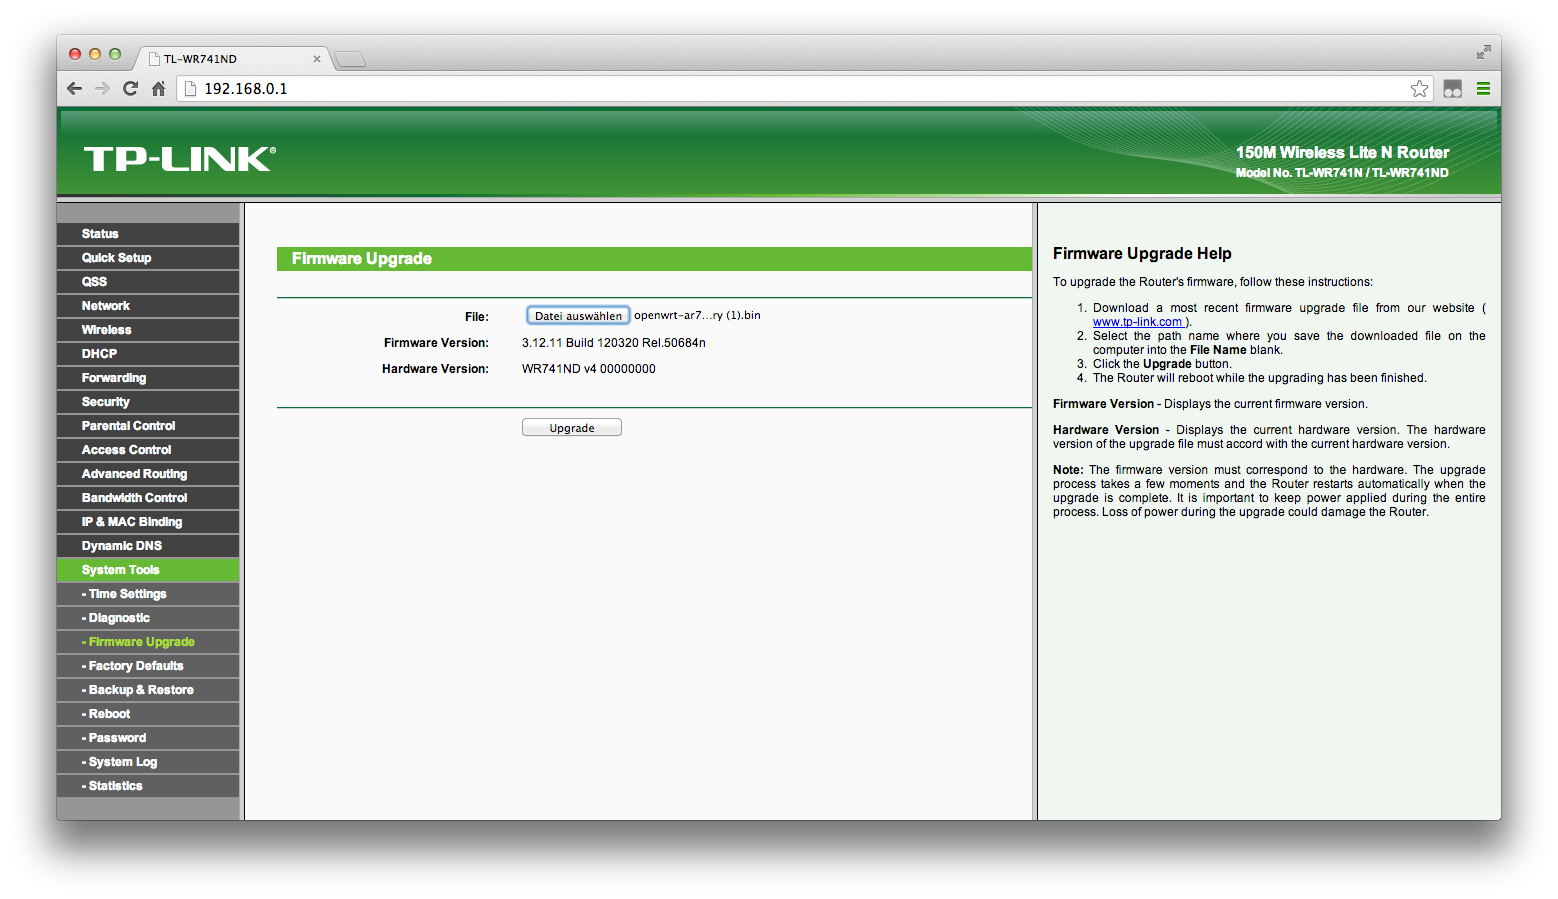
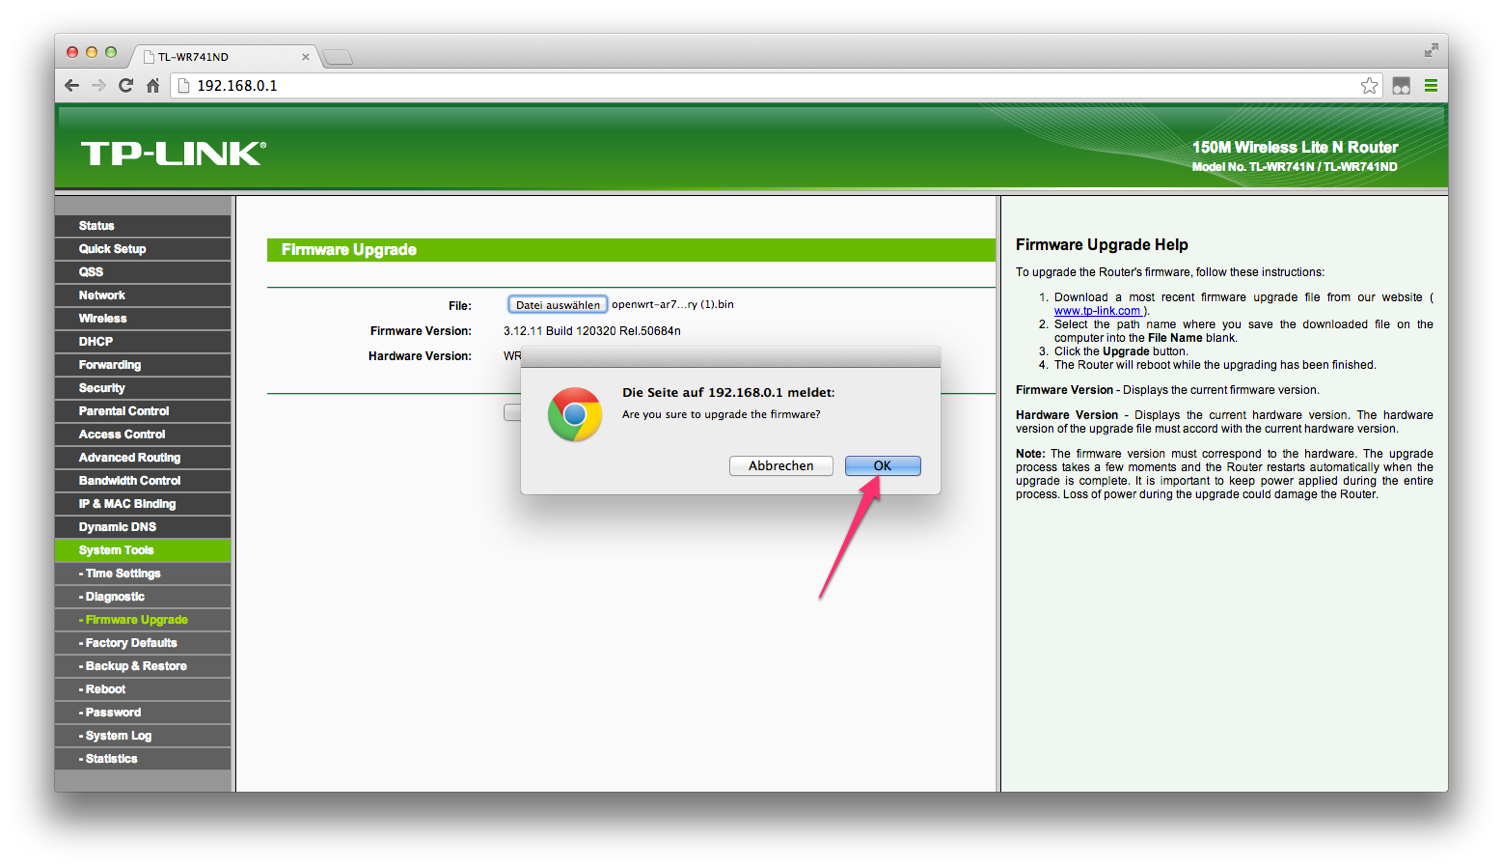
1. Firmware update geschrieben 2. Bilder angepasst

diff --git a/FirmwareEinspielen/HowTo-FirmwareEinspielen.md b/FirmwareEinspielen/HowTo-FirmwareEinspielen.md
@@ -1,93 +1,77 @@
 #  Freifunk Hamburg Router Firmware einspielen
-### Schnell–Anleitung
-
-
-![](./img/TP_link_firmware_confirm.png "")
-![](./img/TP_link_firmware_file.png "")
-![](./img/TP_link_firmware.png "")
-![](./img/TP_link_start.png "")
-![](./img/TP_link_upgrade_progress.png "")
-
+### Schritt für Schritt Anleitung
 ## Einleitung
-Das Einrichten des Routers ist ganz einfach und Du benötigst keine technischen Kenntnisse. Wenn du dieser Anleitung folgst kann eigentlich nichts schiefgehen.
+Um einen Router als Freifunk Router zu nutzen ist es erforderlich dort das Freifunk Betriebssystem – die Freifunk Firmware – zu installieren.
 
-Diese Anleitung erklärt Schritt für Schritt wie's geht. Wenn du fertig bist ist läuft das Freifunk WLAN und kann von Allen unter 
-hamburg.freifunk.net erreicht werden.
+Die Installation ist ganz einfach und Du benötigst keine technischen Kenntnisse. Wenn du dieser Anleitung folgst kann eigentlich nichts schiefgehen.
 
-Dein Router sollte das Freifunk Betriebssystem bereits installiert haben. Ob das so ist, erfährst du von dem Freifunker, von dem du das Gerät bekommen hast.
-Wenn dein Router noch nicht das Freifunk-Betriebssystem installiert hat, findest du hier die Anleitung wie du es installierst.
+Anmerkung: Diese Anleitung geht davon aus, dass du einen relativ neuen Router von TP-Link verwendest und noch keine Freifunk-Firmware auf deinem Router läuft. Wenn du einen anderen Router hast, oder einen älteren, oder ein Update machen willst, bitte lies die Anweisungen im (http://wiki.freifunk.net/Freifunk_Hamburg/Firmware.
+Los geht's!
 
-## Router anschließen
-### 1. Freifunk-Router mit dem Computer verbinden
-Bitte schließe deinen Router an eine Stekckdose an - Das Kabel dazu ist dabei. Verbinde dann den Router mit dem beiliegenden grauen LAN-Kabel mit Deinem Computer. Stecke dafür das Kabel in eine der gelben Buchsen (die blaue brauchst du später). Vergiss nicht den Router einzuschalten.
-TODO Bild einfügen.
+## 1. Freifunk-Router mit dem Computer verbinden
+![Dein Router](./img/dein_router.png "Das ist dein Router")
 
-### 2. Konfiguration starten
-Jetzt kannst du den Router einfach über den Browser konfigurieren. Dazu rufst du in deinen Browser folgende Adresse auf: 
-<http://192.168.1.0>
+Bitte schließe deinen Router (1) (Die Antenne (2) kannst du jetzt oder auch später aufschrauben.) an eine Steckdose an - Das Kabel dazu ist dabei (3). Verbinde dann den Router mit dem beiliegenden grauen LAN-Kabel (4) mit Deinem Computer. 
 
-Als erstes wirst du nach Username und Password gefragt - ab Werk ist das "admin" und "admin". 
-Nach dem Login müsste das Browserfenster nun so aussehen:
-TODO Bild einfügen
+Stecke dafür das Kabel in eine der gelben Buchsen (die blaue brauchst du später).
+![Gelbe Buchse](./img/gelbe_buchse.png "Steck deinen Router für die Einrichtung hier ein")
 
-Folge hier dem Link "Knoten neu einrichten". Er führt dich durch die Schritte des Einrichtungsprozesses.
+## 2. Firmware runterladen
+Derzeit gibt es die Hamburg Freifunk als fertigen Download für zwei verschiedene Router-Typen. 
 
-### 3. Passwort vergeben
-Als erstes legst du ein Passwort fest.
-TODO: Wann brauch ich das? 
+Herauszufinden welche Firmware du brauchst ist ganz einfach:
+Der Router-Typ (1) und die Hardware-Version (2) steht auf der Rückseite des Routers.
 
-![Passwort](./password.jpg "Nimm ein gutes Passwort")
+![Hardware-Version](./img/TP_link_version.png "Hardware-Version")
 
-### 4. Namen vergeben
-ALs nächstes musst du deinem Router einen Namen geben.
-TODO: Warum? Wo eird der denn benötigt?
-![Name](./name.jpg "Such dir einen Namen aus")
+### TP-Link TL-WR740N / TL-WR741ND (der Router mit nur einer Antenne):
 
-Nimm am Besten einen Namen, der …
-TODO: Empfehlungen zum Namen
-TODO: Entscheiden ob das weg kann
-	Wichtig: Du kommst jederzeit durch Drücken der QSS-Taste wieder in meinen Configmode und kannst Einstellungen ändern.
+Version __[4.x](http://freifunk-gw01.hamburg.ccc.de/ffhh/openwrt-ar71xx-generic-tl-wr741nd-v4-squashfs-factory.bin)__
 
-### 5. Optionen 
-#### Mesh
-#### Bandbreitenbegrenzung
-Wenn du einen einen einen einigermaßen normalen Internetanschluss hast, brauchst du die Begrenzung nicht aktivieren.
+### TP-Link TL-WR842ND (der Router mit zwei Antennen)
 
-### 6. Dein Schlüssel
-Nun bekommst Du einen Schlüssel:
-![Schlüssel](./schluessel.jpg)
-Diesen Schlüssel musst Du dir aufschreiben! Du kannst ihn zusätzlich in die Zwischenablage kopieren!
+Version __[1.x](http://freifunk-gw01.hamburg.ccc.de/ffhh/openwrt-ar71xx-generic-tl-wr842n-v1-squashfs-factory.bin)__ 
 
-### 7. Abschließen und Einstellungen speichern
-Noch einmal auf Weiter und auf „Jetzt Neustarten“ und ich starte neu und bin fast bereit...
+Wenn du einen anderen Router verwendest, oder wenn du eine ältere Version der genannten Router hast, kannst du im [Wiki](http://wiki.freifunk.net/Freifunk_Hamburg/Firmware#Download) die entsprechende Version der Firmware laden.
 
+## 3. Firmware einspielen
+Jetzt kannst du den Router einfach über den Browser konfigurieren. 
 
+Dazu rufst du in deinen Browser folgende Adresse auf: __<http://192.168.0.1>__
 
+Dein Browserfenster müsste nun so aussehen – Folge hier dem Link "System Tools".
 
-Wichtig: Wenn ich keine anderen Freifunk-Knoten sehe, kann ich nicht „meshen“ und das Freifunk-Netz vergrößern. Ich brauche in diesem Fall eine Internetverbindung um ein Teil des Freifunk-Netzes zu werden – Bitte schließe mich mit einem Lankabel an Deinen Heimrouter an - 
-Wichtig: benutze dafür nur meine blaue Buchse und NICHT eine meiner gelben Buchsen!
+![TP-Link Konfiguration](./img/TP_link_start.png "Geh zu System Tools")
 
-## Router im Netz registrieren
-Nun musst Du mich über dieses Formular mit dem Freifunk-Netz bekannt machen:
-<http://freifunk-gw01.hamburg.ccc.de:8080/>
-![Registrieren](./foemular.jpg)
+Als nächste wählst du aus dem Menü "Firmware Upgrade" (1). Danach kannst du die vorhin (in Schritt 2) geladene Datei zum Hochladen auswählen (2). Nach einem Klick auf "Upgrade" (3) beginnt der Prozess.
 
+![System Tools - Upgrade Formware](./img/TP_link_firmware.png "Wähle die Freifunk Firmware und spiele sie ein")
 
-Hier trägst Du nun meinen Namen, meinen Schlüssel, meine MAC-Adresse (steht unten auf meinem Gehäuse), Deinen Namen und eine E-Mail-Adresse. Außerdem kannst Du meinen Standort eintragen – so kann man mich leichter finden :-) 
+Du musst noch einmal kurz bestätigen … 
 
-Unter http://freifunk-gw01.hamburg.ccc.de/ffhhmap/geomap.html, mit der Option „Koordinaten beim nächsten Klick zeigen“ findest Du die Koordinaten meines zukünftigen Standortes.
-Dann kannst Du mich eintragen und ich werde ein Teil des Netzes – habe ein bisschen Geduld,
-es kann manchmal ein bisschen dauern.
+![confirm](./img/TP_link_firmware_file.png "Einmal Bestätigen")
 
-## Fertig!
+… und die Installation läuft.
 
-Nach wenigen Minuten sollte der Router auf der Karte an der von dir angegebenen Position zu sehen sein. Wenn ein grüner 
+![progress](./img/TP_link_upgrade_progress.png "Die Installation läuft")
 
-Solltest Du Fragen oder Probleme haben oder Einträge deines Knoten ändern wollen,
-schreibe gerne an <kontakt@hamburg.freifunk.net>!
+## 5. Abschluss 
 
-Ein wichtiger Hinweis: Als Schutz gegen die Störerhaftung wird das Freifunk-Netz in die Niederlande getunnelt. Das kann bedeuten, dass Dich Facebook, Googlemail, etc. warnen, Du seist im Ausland.
+Nachdem die Firmware fertig eingespielt ist, startet der Router neu. 
 
-Erschrick bitte nicht – in machen Warnungen ist von „Hackerangriffen“ etc. die Rede.  
+![Reboot](./img/TP_link_firmware_reboot.png "Warte bis der Router neu startet")
+
+Nach dem Neustart ist der Router nicht mehr unter der angegeben Adresse sichtbar und eine Fehlermeldung erscheint. Das ist gut so. Denn nun läuft nicht mehr die alte Firmware sondern die neue, tolle Freifunk Firmware auf deinem Router.
+
+![Keine Verbindung](./img/TP_link_firmware_finished.png "Die Fehlermeldung heißt: Alles prima!")
+
+Als nächstes musst du deinen Router noch einrichten und im Freifunk Netz anmelden. Auch das ist ganz einfach. Eine Anleitung findest du hier.
+
+![Neue IP-Adresse](./img/TP_link_firmware_reboot_finished_next.png "Gib die neue IP-Adresse ein")
+
+## Fragen?
+Solltest Du Fragen oder Probleme haben oder Einträge deines Knoten ändern wollen, schreibe gerne an 
+
+__<kontakt@hamburg.freifunk.net>__!
 
 [![Licence: Public Domain](http://creativecommons.org/images/deed/nolaw.png)](http://creativecommons.org/publicdomain/zero/1.0/)

diff --git a/README.md b/README.md
@@ -1,1 +1,8 @@
-Ein verbessertes Configurations Handbuch für die von Freifunk Hamburg verwendeten TP-Link Router.
+# Freifunk Hamburg – Anleitungen
+## Ein verbessertes Configurations Handbuch für TP-Link Router.
+
+Die Anleitung besteht aus zwei Teilen
+
+1. [Einspielen der Freifunk Firmware](./FirmwareEinspielen/HowTo-FirmwareEinspielen.md) (noch sehr unfertig)
+
+2. [Einrichten des Routers](./Einrichtung/HowTo-Router-Einrichten.md)
